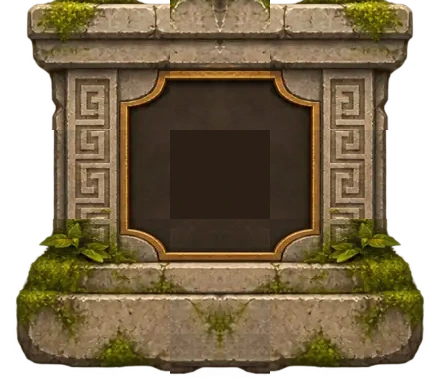
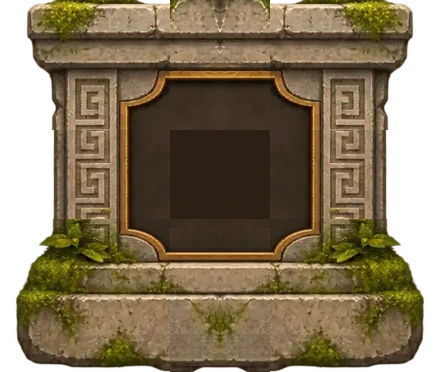
let the Lobby's frame stand free of the page
The frame's art has transparent margins and slabs that overhang the side columns, which showed as
a white box inside a rectangular shadow. The side columns now sit flush with the card and the
slabs overhang through the border image's outset, and the shadow follows the frame's outline
instead of its box.

diff --git a/styles.css b/styles.css
@@ -226,24 +226,30 @@ body.path-mod-playerpuzzle .pp-phase-modal::backdrop {
  */
 body.path-mod-playerpuzzle .pp-lobby {
     position: relative;
+    width: calc(100% - 3rem);
     max-width: 760px;
     margin-inline: auto;
     margin-block: 3rem;
     border-style: solid;
-    border-width: 49px 65px 63px;
+    border-width: 49px 44px 58px;
     border-image-source: var(--pp-frame);
-    border-image-slice: 130 170 165 170;
+    border-image-slice: 130 170 153 170;
+    border-image-width: 49px 65px 58px;
+    border-image-outset: 0 21px;
     border-image-repeat: round;
     background: #2b1f16 var(--pp-texture) center / cover;
     background-clip: padding-box;
     padding: 0.75rem 0.5rem 1rem;
-    box-shadow: 0 1.5rem 3rem rgba(0, 0, 0, 0.5);
+    filter: drop-shadow(0 1.2rem 1.5rem rgba(0, 0, 0, 0.45));
     color: #f1e6c8;
 }
 
 @media (max-width: 640px) {
     body.path-mod-playerpuzzle .pp-lobby {
-        border-width: 31px 41px 40px;
+        border-width: 31px 28px 37px;
+        border-image-width: 31px 41px 37px;
+        border-image-outset: 0 13px;
+        width: calc(100% - 2rem);
         margin-block: 2rem;
         padding-inline: 0;
     }
@@ -1209,8 +1215,8 @@ body.path-mod-playerpuzzle .pp-shop-tiles .pp-lobby-shop-limit {
 
 body.path-mod-playerpuzzle .pp-shop-tiles .pp-lobby-buy {
     width: 100%;
-    padding: 0.25rem 0.3rem;
-    font-size: 0.8rem;
+    padding: 0.25rem 0.15rem;
+    font-size: 0.75rem;
 }
 
 body.path-mod-playerpuzzle .pp-shop-tile-icon {
